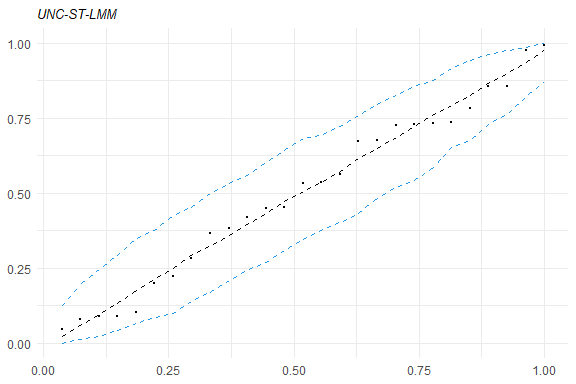
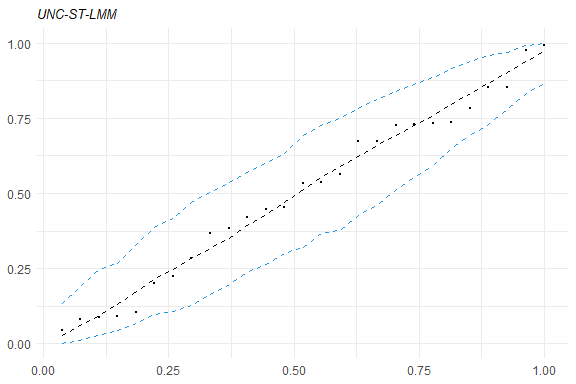
documentation updates

diff --git a/README.md b/README.md
@@ -54,6 +54,17 @@ dat1 <- as.data.frame(nlme::Orthodont)
 fm1 <- smsn.lmm(dat1, formFixed = distance ~ age, formRandom = ~ age,
                 groupVar = "Subject", distr = "st",
                 control = lmmControl(quiet = TRUE))
+confint(fm1)
+#>               Estimate Std Error  CI 95% lower CI 95% upper
+#> (Intercept) 17.0163264 0.9456852  1.516282e+01   18.8698353
+#> age          0.6248518 0.1242525  3.813214e-01    0.8683822
+#> sigma2       0.8170500 0.2301850  3.658957e-01    1.2682042
+#> Dsqrt11      2.5490440 1.2916696  1.741819e-02    5.0806698
+#> Dsqrt12     -0.2005353 0.1737128 -5.410063e-01    0.1399356
+#> Dsqrt22      0.1967694 0.1004277 -6.536992e-05    0.3936042
+#> lambda1     -3.0008137        NA            NA           NA
+#> lambda2      2.2021111        NA            NA           NA
+#> nu1          4.6623218        NA            NA           NA
 summary(fm1)
 #> Linear mixed models with distribution st and dependence structure UNC 
 #> Call:
@@ -97,6 +108,24 @@ plot(fm1)
 Several methods are available for SMSN and SMN objects, such as:
 `print`, `summary`, `plot`, `fitted`, `residuals`, `predict`, and
 `update`.
+
+When asymptotic CIs are not reliable due to small sample size, you can
+consider using the methods `sandwich` or `bootstrap` in the `confint`
+function. However, these are based on numerical approximations and may
+require more time to run. For example:
+
+``` r
+library(tictoc)
+#> Warning: package 'tictoc' was built under R version 4.6.1
+tic()
+confint(fm1, method = "sandwich")
+#> Computing sandwich intervals...
+#>               Estimate  Std Error CI 95% lower CI 95% upper
+#> (Intercept) 17.0163264 0.62897165   15.7835646   18.2490881
+#> age          0.6248518 0.05752075    0.5121132    0.7375904
+toc()
+#> 19.51 sec elapsed
+```
 
 Some tools for goodness-of-fit assessment are also available, for
 example:
